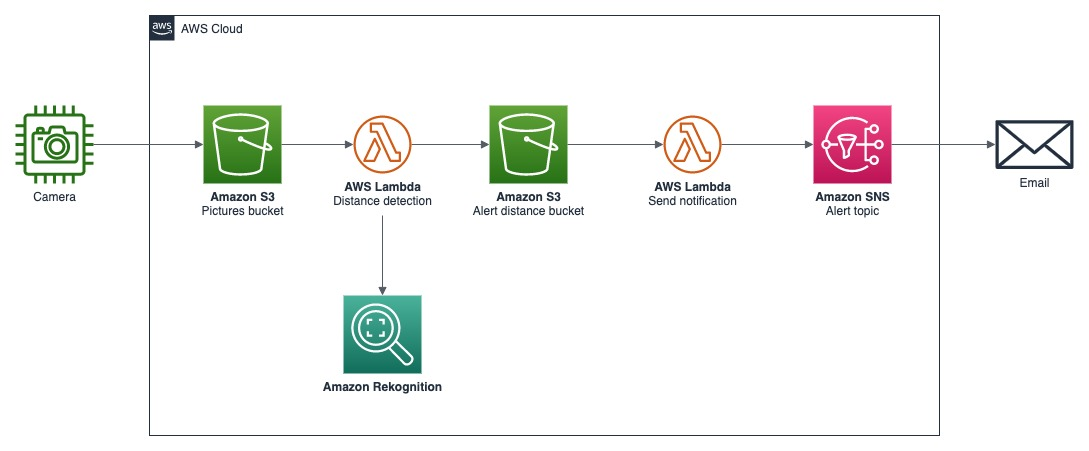
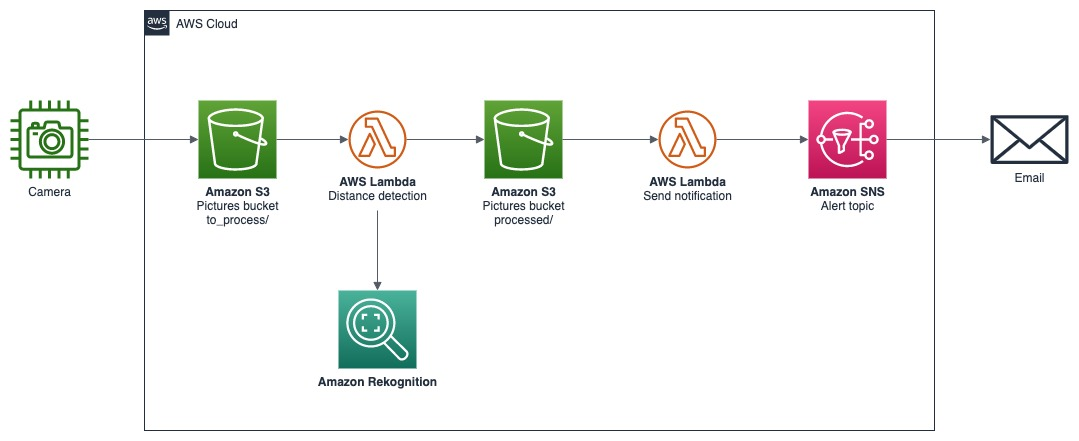
fix(Template) Updated template events

diff --git a/README.md b/README.md
@@ -47,7 +47,7 @@ aws s3 cp lambda_package_notify.zip s3://<MY_BUCKET_NAME>/lambda_code/
 Now we need to create the stack using our Cloudformation template available in **cloudformation/** folder
 
 ``` shell
-aws cloudformation create-stack --stack-name crowd-rekognition-stack --template-body file://template/cloudformation.yml --parameters ParameterKey=StackName,ParameterValue=crowd-rekognition-stack ParameterKey=BucketPictures,ParameterValue=<NEW_BUCKET_NAME_PICTURES> ParameterKey=BucketWarning,ParameterValue=<NEW_BUCKET_NAME_WAWRNINGS> ParameterKey=BucketLambdaCode,ParameterValue=<BUCKET_NAME_THAT_WE_PROVISIONED_BEFORE> ParameterKey=SnsSubscriptionEmail,ParameterValue=<YOUR_EMAIL_ADDRESS> --capabilities CAPABILITY_IAM
+aws cloudformation create-stack --stack-name crowd-rekognition-stack --template-body file://template/cloudformation.yml --parameters ParameterKey=StackName,ParameterValue=crowd-rekognition-stack ParameterKey=BucketPictures,ParameterValue=<NEW_BUCKET_NAME_PICTURES> ParameterKey=BucketLambdaCode,ParameterValue=<BUCKET_NAME_THAT_WE_PROVISIONED_BEFORE> ParameterKey=SnsSubscriptionEmail,ParameterValue=<YOUR_EMAIL_ADDRESS> --capabilities CAPABILITY_IAM
 ```
 
 Wait for the stack to be created.
